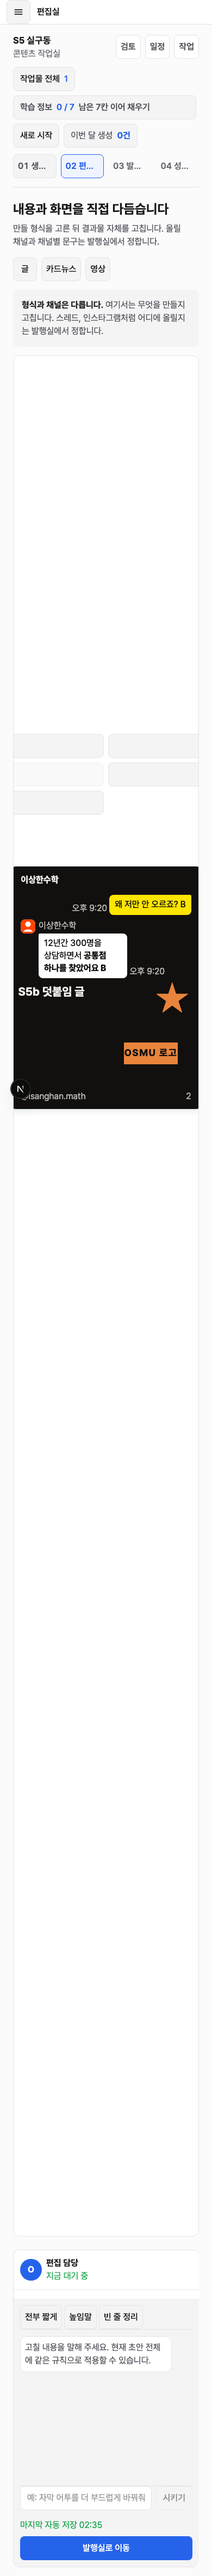
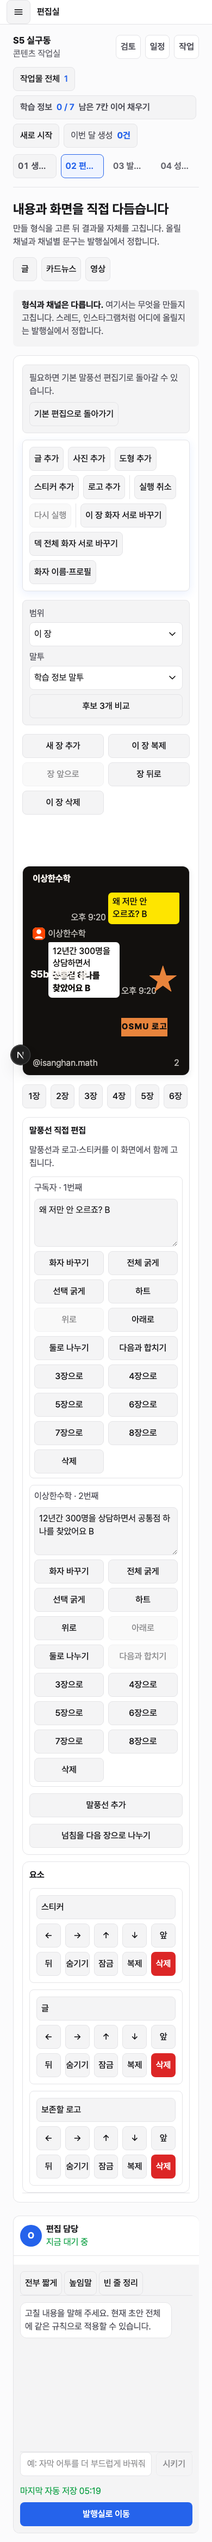
fix(editroom): keep mobile chat tools in view

diff --git a/dashboard/src/components/studio/card/CardCanvasEditor.module.css b/dashboard/src/components/studio/card/CardCanvasEditor.module.css
@@ -245,13 +245,14 @@
     max-width: calc(100vw - var(--pad-inset) - var(--pad-inset));
     margin-inline: auto;
   }
-  .workspace { grid-template-columns: 1fr; }
+  .workspace { grid-template-columns: minmax(0, 1fr); }
   .workspace,
   .stageColumn,
   .rightPanel { width: 100%; max-width: 100%; min-width: 0; }
+  .stageColumn { grid-template-columns: minmax(0, 1fr); }
   .stage {
-    width: calc(100vw - var(--pad-inset) - var(--pad-inset));
-    max-width: calc(100vw - var(--pad-inset) - var(--pad-inset));
+    width: 100%;
+    max-width: 100%;
   }
   .slideStrip { display: flex; overflow-x: auto; }
   .stageColumn { order: -1; }
